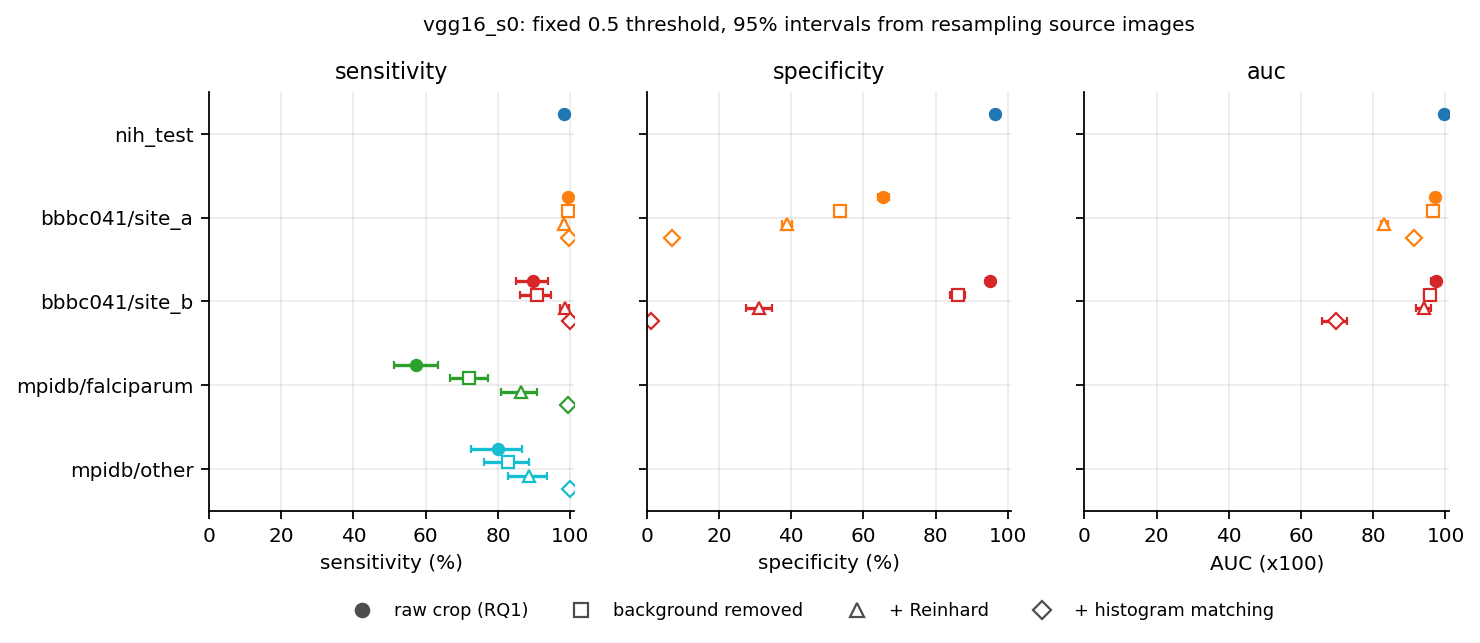
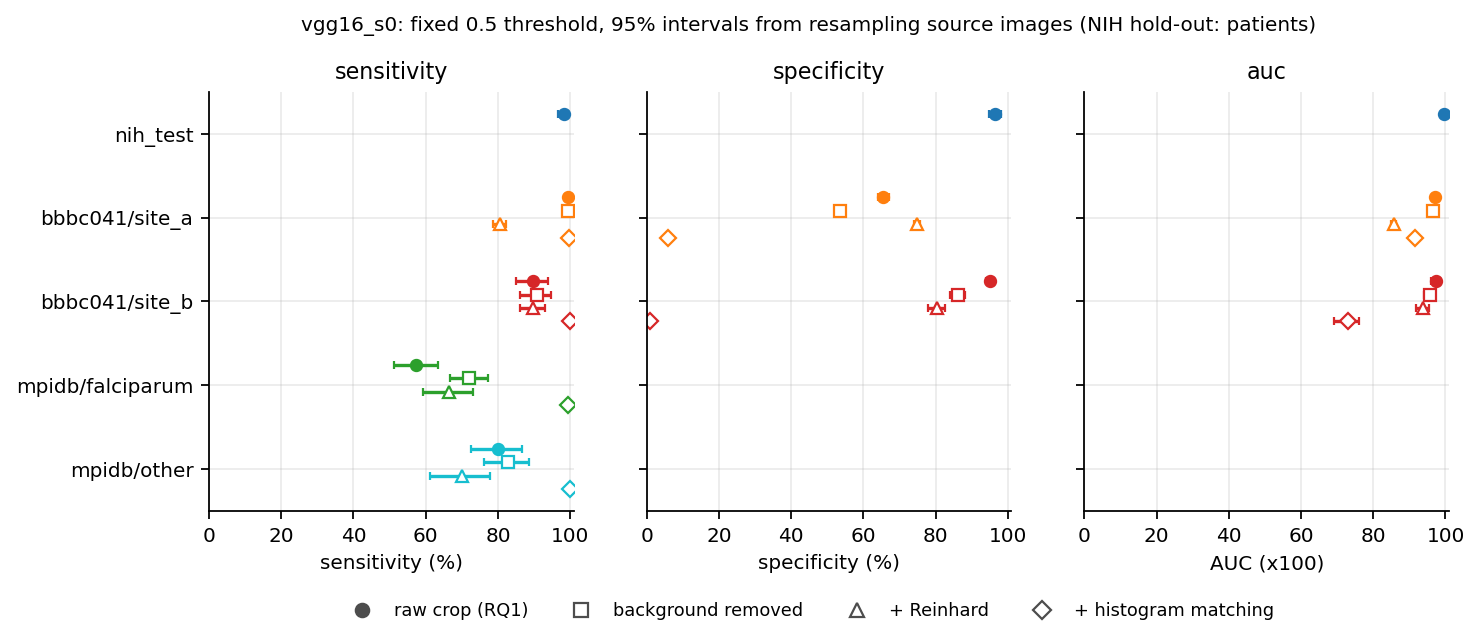
Re-evaluate VGG-16 with the fixed colour steps and patient-level NIH intervals
Colour crops rebuilt with the per-cell Reinhard target and the corrected
histogram matching; VGG-16 seed 0 re-scored on Colab (T4). RQ1 point values
are unchanged; NIH intervals widen under the patient bootstrap. Reinhard now
raises site_a specificity (65.5 -> 74.9) at a cost in sensitivity (99.3 ->
80.5); histogram matching is essentially unchanged. Excluding the 1,022
"nearest"-mask BBBC041 cells moves no value by more than 1.8 points.

The MO text is updated and built as MethodologyOverview_NoahTjonSienKie_v2.pdf;
the formative PDF is left as it was.

diff --git a/scripts/summarise_results.py b/scripts/summarise_results.py
@@ -178,7 +178,8 @@ def figure(model: str, rq1: pd.DataFrame, rq2: pd.DataFrame | None = None) -> No
                    for v in variants]
         fig.legend(handles=handles, loc="lower center", ncol=len(variants), fontsize=8,
                    bbox_to_anchor=(0.5, -0.12))
-    fig.suptitle(f"{model}: fixed 0.5 threshold, 95% intervals from resampling source images",
+    fig.suptitle(f"{model}: fixed 0.5 threshold, 95% intervals from resampling source images "
+                 "(NIH hold-out: patients)",
                  fontsize=9, y=1.02)
     plots.save(fig, f"R_{model}")
     plt.close(fig)
